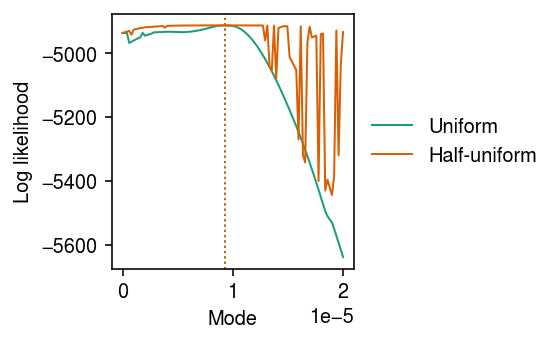
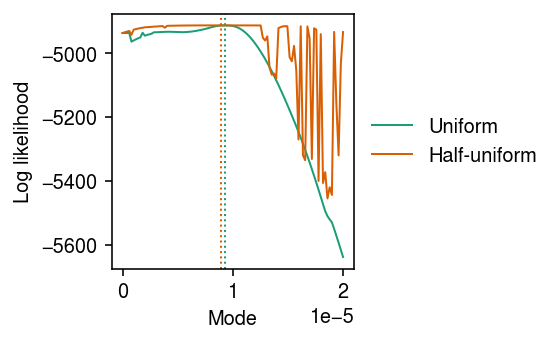
More detailed look at unimodal example

diff --git a/docs/halfuniform.html b/docs/halfuniform.html
@@ -1,7 +1,7 @@
 <!DOCTYPE html>
 <html lang="en">
 <head>
-<!-- 2020-08-15 Sat 17:55 -->
+<!-- 2020-08-16 Sun 12:02 -->
 <meta charset="utf-8">
 <meta name="viewport" content="width=device-width, initial-scale=1">
 <title>Uniform vs half-uniform mixture prior</title>
@@ -266,6 +266,15 @@ happened.
 <span class="org-keyword">import</span> numpy <span class="org-keyword">as</span> np
 <span class="org-keyword">import</span> pandas <span class="org-keyword">as</span> pd
 <span class="org-keyword">import</span> scmodes
+<span class="org-keyword">import</span> scipy.stats <span class="org-keyword">as</span> st
+</pre>
+</div>
+
+<div class="org-src-container">
+<pre class="src src-ipython"><span class="org-keyword">import</span> rpy2.robjects.packages
+<span class="org-keyword">import</span> rpy2.robjects.pandas2ri
+rpy2.robjects.pandas2ri.activate()
+<span class="org-variable-name">ashr</span> = rpy2.robjects.packages.importr(<span class="org-string">'ashr'</span>)
 </pre>
 </div>
 
@@ -400,13 +409,88 @@ plt.tight_layout()
 <p><img src="figure/halfuniform.org/ipsc-ENSG00000013364-mode.png" alt="ipsc-ENSG00000013364-mode.png">
 </p>
 </div>
+
+<p>
+Look at the fits for two close choices of mode with very different log
+likelihoods.
+</p>
+
+<div class="org-src-container">
+<pre class="src src-ipython"><span class="org-variable-name">fit0</span> = scmodes.ebpm.ebpm_unimodal(x, s, mixcompdist=<span class="org-string">'halfuniform'</span>, mode=grid[88])
+<span class="org-variable-name">fit1</span> = scmodes.ebpm.ebpm_unimodal(x, s, mixcompdist=<span class="org-string">'halfuniform'</span>, mode=grid[89])
+</pre>
+</div>
+
+<div class="org-src-container">
+<pre class="src src-ipython"><span class="org-variable-name">pmf</span> = <span class="org-builtin">dict</span>()
+<span class="org-variable-name">y</span> = np.arange(x.<span class="org-builtin">max</span>() + 1)
+
+<span class="org-variable-name">g</span> = np.array(fit0.rx2(<span class="org-string">'fitted_g'</span>))
+<span class="org-variable-name">g</span> = g[:,g[0] &gt; 1e-8]
+<span class="org-variable-name">a</span> = np.fmin(g[1], g[2])
+<span class="org-variable-name">b</span> = np.fmax(g[1], g[2])
+<span class="org-variable-name">comp_dens_conv</span> = np.array([((st.gamma(a=k + 1, scale=1 / s.reshape(-1, 1)).cdf(b.reshape(1, -1)) - st.gamma(a=k + 1, scale=1 / s.reshape(-1, 1)).cdf(a.reshape(1, -1))) / np.outer(s, b - a)).mean(axis=0) <span class="org-keyword">for</span> k <span class="org-keyword">in</span> y])
+<span class="org-variable-name">comp_dens_conv</span>[:,0] = st.poisson(mu=s.reshape(-1, 1) * b[0]).pmf(y).mean(axis=0)
+pmf[grid[88]] = comp_dens_conv @ g[0]
+
+<span class="org-variable-name">g</span> = np.array(fit1.rx2(<span class="org-string">'fitted_g'</span>))
+<span class="org-variable-name">g</span> = g[:,g[0] &gt; 1e-8]
+<span class="org-variable-name">a</span> = np.fmin(g[1], g[2])
+<span class="org-variable-name">b</span> = np.fmax(g[1], g[2])
+<span class="org-variable-name">comp_dens_conv</span> = np.array([((st.gamma(a=k + 1, scale=1 / s.reshape(-1, 1)).cdf(b.reshape(1, -1)) - st.gamma(a=k + 1, scale=1 / s.reshape(-1, 1)).cdf(a.reshape(1, -1))) / np.outer(s, b - a)).mean(axis=0) <span class="org-keyword">for</span> k <span class="org-keyword">in</span> y])
+<span class="org-variable-name">comp_dens_conv</span>[:,0] = st.poisson(mu=s.reshape(-1, 1) * b[0]).pmf(y).mean(axis=0)
+pmf[grid[89]] = comp_dens_conv @ g[0]
+</pre>
+</div>
+
+<div class="org-src-container">
+<pre class="src src-ipython"><span class="org-variable-name">cdf</span> = <span class="org-builtin">dict</span>()
+<span class="org-variable-name">temp</span> = np.linspace(0, 2e-5, 1000)
+cdf[grid[88]] = np.array(ashr.cdf_ash(fit0, temp).rx2(<span class="org-string">'y'</span>)).ravel()
+cdf[grid[89]] = np.array(ashr.cdf_ash(fit1, temp).rx2(<span class="org-string">'y'</span>)).ravel()
+</pre>
+</div>
+
+<div class="org-src-container">
+<pre class="src src-ipython"><span class="org-variable-name">cm</span> = plt.get_cmap(<span class="org-string">'Dark2'</span>)
+plt.clf()
+<span class="org-variable-name">fig</span>, <span class="org-variable-name">ax</span> = plt.subplots(2, 1)
+fig.set_size_inches(4.5, 4)
+
+<span class="org-variable-name">temp</span> = np.arange(x.<span class="org-builtin">max</span>() + 1)
+ax[0].hist(x, bins=temp, color=<span class="org-string">'0.7'</span>, density=<span class="org-constant">True</span>)
+<span class="org-keyword">for</span> i, m <span class="org-keyword">in</span> <span class="org-builtin">enumerate</span>([88, 89]):
+  ax[0].plot(temp + .5, pmf[grid[m]], lw=1, c=cm(i), label=f<span class="org-string">'Mode={grid[m]:.3g}'</span>)
+<span class="org-variable-name">gamma_res</span> = scmodes.ebpm.ebpm_gamma(x, s)
+ax[0].plot(temp + .5, np.array([scmodes.benchmark.gof._zig_pmf(k, size=s, log_mu=gamma_res[0], log_phi=-gamma_res[1]).mean() <span class="org-keyword">for</span> k <span class="org-keyword">in</span> temp]), lw=1, c=cm(2), label=<span class="org-string">'Gamma'</span>)
+ax[0].legend(frameon=<span class="org-constant">False</span>)
+ax[0].set_xlabel(<span class="org-string">'Number of molecules'</span>)
+ax[0].set_ylabel(<span class="org-string">'Density'</span>)
+
+<span class="org-variable-name">temp</span> = np.linspace(0, 2e-5, 1000)
+<span class="org-keyword">for</span> i, m <span class="org-keyword">in</span> <span class="org-builtin">enumerate</span>([88, 89]):
+  ax[1].plot(temp, cdf[grid[m]], lw=1, c=cm(i), label=f<span class="org-string">'Mode={grid[m]:.3g}'</span>)
+ax[1].plot(temp, st.gamma(a=np.exp(gamma_res[1]), scale=np.exp(gamma_res[0] - gamma_res[1])).cdf(temp), lw=1, c=cm(2), label=<span class="org-string">'Gamma'</span>)
+ax[1].legend(frameon=<span class="org-constant">False</span>)
+ax[1].set_ylim(0, 1)
+ax[1].set_xlabel(<span class="org-string">'Latent gene expression'</span>)
+ax[1].set_ylabel(<span class="org-string">'CDF'</span>)
+fig.tight_layout()
+</pre>
+</div>
+
+
+<div class="figure">
+<p><img src="figure/halfuniform.org/ipsc-ENSG00000013364-fit.png" alt="ipsc-ENSG00000013364-fit.png">
+</p>
+</div>
 </div>
 </div>
 </div>
 </div>
 <div id="postamble" class="status">
 <p class="author">Author: Abhishek Sarkar</p>
-<p class="date">Created: 2020-08-15 Sat 17:55</p>
+<p class="date">Created: 2020-08-16 Sun 12:02</p>
 <p class="validation"><a href="http://validator.w3.org/check?uri=referer">Validate</a></p>
 </div>
 </body>
